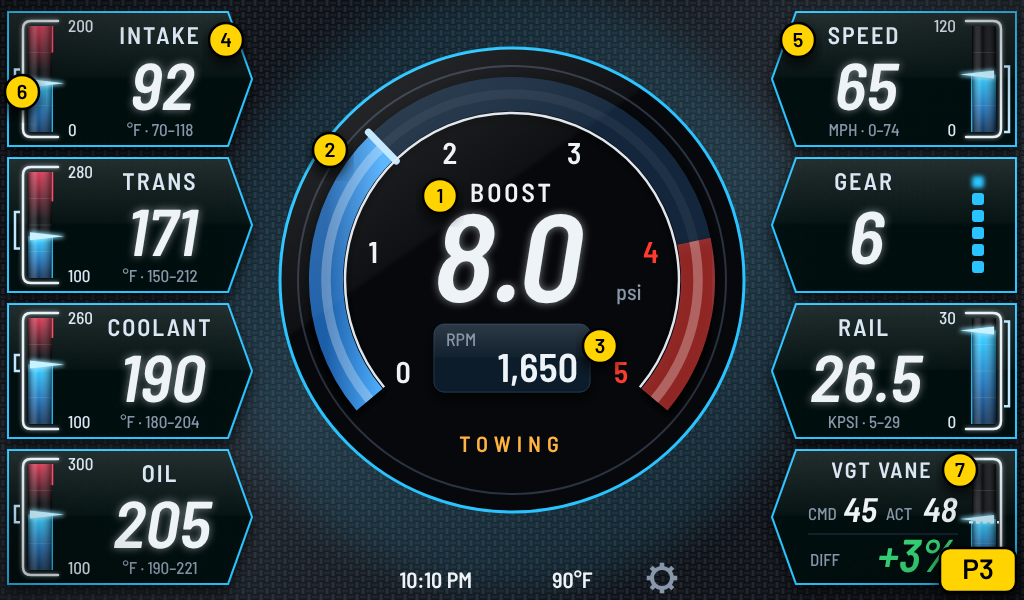
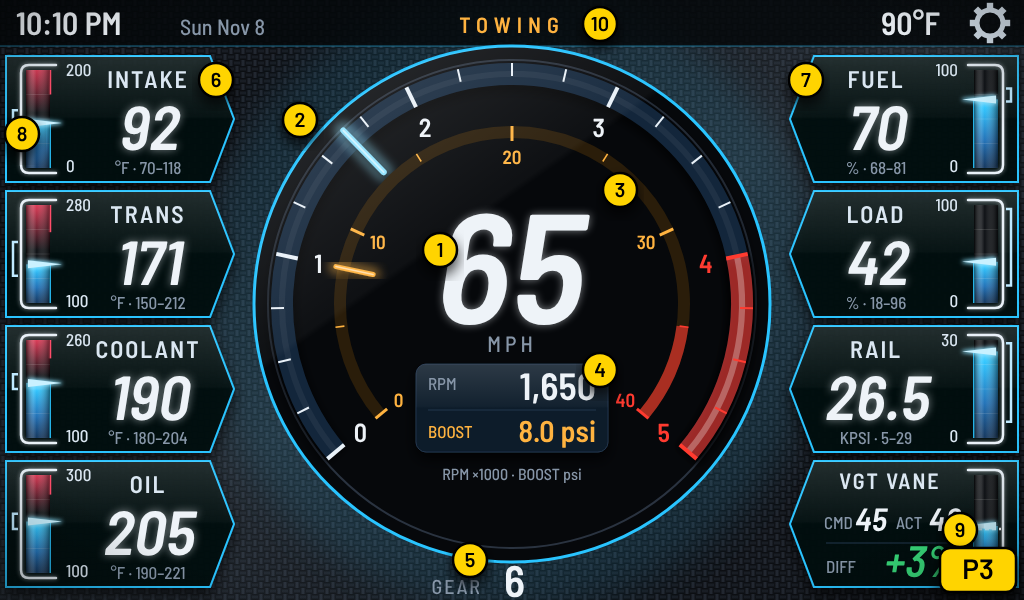
Mockups v2: P3 rev 3 (bigger center, speed center, RPM and boost needles, gear below, top bar)
Claude-Session: https://claude.ai/code/session_01NB1fkpFcGY28RY4JZ8NWPC

diff --git a/docs/mockups/v2.html b/docs/mockups/v2.html
@@ -277,26 +277,40 @@ pages.classic_trend=()=>{let o=`<rect width="1024" height="600" fill="#0d0d0f"/>
 
 
 // Premium Towing: aftermarket diesel-monitor look (carbon, segmented EGT arc, side data panels)
-pages.premium_towing=()=>{const CX=512,CY=280;const CY2='#29c4ff';
-  let o=`<rect width="1024" height="600" fill="url(#carbon)"/><rect width="1024" height="600" fill="url(#sheen)"/><circle cx="512" cy="290" r="300" fill="#29c4ff" opacity=".10" filter="url(#bloomBig)"/>`;GL.push([CX,CY,232]);
+pages.premium_towing=()=>{const CX=512,CY=304,RD=258;const CY2='#29c4ff';
+  let o=`<rect width="1024" height="600" fill="url(#carbon)"/><rect width="1024" height="600" fill="url(#sheen)"/><circle cx="512" cy="300" r="310" fill="#29c4ff" opacity=".10" filter="url(#bloomBig)"/>`;GL.push([CX,CY,RD]);
   const sk=(x,y,sz,t,op={})=>`<g transform="translate(${x},${y}) skewX(-9)">`+T(0,0,sz,t,{f:'C6',...op})+`</g>`;
+  // top bar: time, date, TOWING, outside temp, settings
+  o+=`<rect x="0" y="0" width="1024" height="46" fill="#05080b" opacity=".85"/><line x1="0" y1="46" x2="1024" y2="46" stroke="${CY2}" stroke-opacity=".5"/>`;
+  o+=T(16,35,32,'10:10 PM',{a:'start',f:'C6'})+T(180,35,22,'Sun Nov 8',{a:'start',c:C.dim,f:'C5'})+T(CX,33,22,'TOWING',{c:C.amber,ls:6,f:'C6'});
+  o+=T(940,35,32,'90°F',{a:'end',f:'C6'});
+  {let g='';const x=990,y=23;for(let i=0;i<8;i++){const an=i*45,[a1,b1]=P(x,y,17,an-11),[a2,b2]=P(x,y,17,an+11);g+=`<line x1="${n1(a1)}" y1="${n1(b1)}" x2="${n1(a2)}" y2="${n1(b2)}" stroke="#dbe7f2" stroke-width="7"/>`}
+   o+=g+`<circle cx="${x}" cy="${y}" r="13" fill="none" stroke="#dbe7f2" stroke-width="5"/>`}
   // center disc
-  o+=`<circle cx="${CX}" cy="${CY}" r="232" fill="#06080b" stroke="${CY2}" stroke-width="3"/><circle cx="${CX}" cy="${CY}" r="214" fill="none" stroke="#2a3340" stroke-width="2"/>`;
-  // smooth RPM arc (like P4-1)
-  const R=186,A0=140,SW=260,a=v=>A0+SW*v/5;
-  o+=`<path d="${arc(CX,CY,R,A0,A0+SW)}" stroke="#13263b" stroke-width="34" fill="none"/>`;
-  o+=`<path d="${arc(CX,CY,R,A0,a(V.rpm/1000))}" stroke="url(#blue)" stroke-width="34" fill="none"/>`;
-  o+=`<path d="${arc(CX,CY,R,a(4),a(5))}" stroke="${C.red}" stroke-width="34" fill="none" opacity=".55"/>`;
-  {const[x1,y1]=P(CX,CY,R-20,a(V.rpm/1000)),[x2,y2]=P(CX,CY,R+20,a(V.rpm/1000));o+=`<line x1="${n1(x1)}" y1="${n1(y1)}" x2="${n1(x2)}" y2="${n1(y2)}" stroke="#bfe6ff" stroke-width="7" stroke-linecap="round"/>`}
-  o+=`<path d="${arc(CX,CY,R-19,A0,A0+SW)}" stroke="#dfe6ee" stroke-width="2.5" fill="none"/>`;
-  for(let v=0;v<=5;v++){const[x,y]=P(CX,CY,R-44,a(v));o+=T(x,y,30,v,{db:'central',c:v>=4?C.red:C.text,f:'C6'})}
-  // boost, big
-  o+=T(CX,CY-78,26,'BOOST',{f:'C6',ls:3});o+=sk(CX-8,CY+22,124,V.boost.toFixed(1));o+=T(CX+104,CY+20,22,'psi',{a:'start',c:C.dim,f:'C5'});
-  // RPM box (like P4-6)
-  o+=`<rect x="434" y="${CY+44}" width="156" height="68" rx="10" fill="#0f1b2a" stroke="#22364d"/>`+T(446,CY+66,18,'RPM',{a:'start',c:C.dim,f:'C5'})+T(578,CY+102,40,fmt(V.rpm),{a:'end',f:'C6'});
-  o+=T(CX,CY+172,22,'TOWING',{c:C.amber,ls:6,f:'C6'});
-  o+=T(CX-40,588,22,'10:10 PM',{a:'end',f:'C6'})+T(CX+40,588,22,'90°F',{a:'start',f:'C6'})+cog(CX+150,578);
-  // side panels with a range bar on the straight edge: normal range, red zone, this drive's min-max, and now
+  o+=`<circle cx="${CX}" cy="${CY}" r="${RD}" fill="#06080b" stroke="${CY2}" stroke-width="3"/><circle cx="${CX}" cy="${CY}" r="${RD-14}" fill="none" stroke="#2a3340" stroke-width="2"/>`;
+  const A0=140,SW=260;
+  // outer scale: RPM with a needle
+  const RO=230,ar=v=>A0+SW*v/5;
+  o+=`<path d="${arc(CX,CY,RO,A0,A0+SW)}" stroke="#13263b" stroke-width="22" fill="none"/>`;
+  o+=`<path d="${arc(CX,CY,RO,ar(4),ar(5))}" stroke="${C.red}" stroke-width="22" fill="none" opacity=".6"/>`;
+  for(let v=0;v<=5;v+=.25){const maj=v%1==0,[x1,y1]=P(CX,CY,RO+11,ar(v)),[x2,y2]=P(CX,CY,RO-(maj?11:2),ar(v));o+=`<line x1="${n1(x1)}" y1="${n1(y1)}" x2="${n1(x2)}" y2="${n1(y2)}" stroke="${v>=4?C.red:'#e9f1f8'}" stroke-width="${maj?4:2}"/>`}
+  for(let v=0;v<=5;v++){const[x,y]=P(CX,CY,RO-32,ar(v));o+=T(x,y,26,v,{db:'central',c:v>=4?C.red:C.text,f:'C6'})}
+  o+=needle(CX,CY,RO-46,RO+12,ar(V.rpm/1000),'#8fe3ff',6);
+  // inner scale: BOOST with its own needle
+  const RI=172,ab=v=>A0+SW*v/40;
+  o+=`<path d="${arc(CX,CY,RI,A0,A0+SW)}" stroke="#2a1d0a" stroke-width="12" fill="none"/>`;
+  o+=`<path d="${arc(CX,CY,RI,ab(35),ab(40))}" stroke="${C.red}" stroke-width="12" fill="none" opacity=".6"/>`;
+  for(let v=0;v<=40;v+=5){const maj=v%10==0,[x1,y1]=P(CX,CY,RI+6,ab(v)),[x2,y2]=P(CX,CY,RI-(maj?9:3),ab(v));o+=`<line x1="${n1(x1)}" y1="${n1(y1)}" x2="${n1(x2)}" y2="${n1(y2)}" stroke="${v>=35?C.red:C.amber}" stroke-width="${maj?3:1.6}"/>`}
+  for(let v=0;v<=40;v+=10){const[x,y]=P(CX,CY,RI-24,ab(v));o+=T(x,y,19,v,{db:'central',c:v>=35?C.red:C.amber,f:'C6'})}
+  o+=needle(CX,CY,RI-30,RI+8,ab(V.boost),C.amber,5);
+  // speed, big; RPM digits with boost under them
+  o+=sk(CX-6,CY+20,156,V.mph)+T(CX,CY+48,22,'MPH',{c:C.dim,ls:4,f:'C5'});
+  o+=`<rect x="${CX-96}" y="${CY+60}" width="192" height="88" rx="10" fill="#0f1b2a" stroke="#22364d"/>`+T(CX,CY+176,16,'RPM ×1000  ·  BOOST psi',{c:C.dim,f:'C5'});
+  o+=T(CX-84,CY+86,17,'RPM',{a:'start',c:C.dim,f:'C5'})+T(CX+84,CY+96,38,fmt(V.rpm),{a:'end',f:'C6'});
+  o+=`<line x1="${CX-84}" y1="${CY+106}" x2="${CX+84}" y2="${CY+106}" stroke="#22364d"/>`;
+  o+=T(CX-84,CY+134,17,'BOOST',{a:'start',c:C.amber,f:'C5'})+T(CX+84,CY+138,30,V.boost.toFixed(1)+' psi',{a:'end',f:'C6',c:C.amber});
+  // gear below the circle
+  o+=T(CX-30,594,20,'GEAR',{a:'end',c:C.dim,f:'C5',ls:2})+T(CX-8,597,44,V.gear,{a:'start',f:'C6'});
   // Premium vertical bar: outline frame, red zone fading down, fill fading down from a bright top edge, pointer wedge,
   // dividers, tube shading, scale numbers, and this drive's min-max as a bracket outside the frame.
   let RB=0;
@@ -327,22 +341,22 @@ pages.premium_towing=()=>{const CX=512,CY=280;const CY2='#29c4ff';
     if(lo!=null){const bxx=left?fx-8:fx+8,yh=Y(hi),yl=Y(lo);g+=`<path d="M${bxx+(left?5:-5)},${n1(yh)} H${bxx} V${n1(yl)} H${bxx+(left?5:-5)}" fill="none" stroke="#bfe9ff" stroke-width="2.5"/>`}
     return g}
   const L=[['INTAKE',V.iat,'°F',[0,200,150,70,118]],['TRANS',V.trans,'°F',[100,280,230,150,212]],['COOLANT',V.cool,'°F',[100,260,230,180,204]],['OIL',V.oil,'°F',[100,300,260,190,221]]];
-  const Rr=[['SPEED',V.mph,'MPH',[0,120,null,0,74]],['GEAR',V.gear,'',null],['RAIL',26.5,'KPSI',[0,30,null,5,29]],['VGT',null,'',null]];
-  [[L,true],[Rr,false]].forEach(([items,left])=>items.forEach(([lab,val,u,rng],i)=>{const y=12+i*146,x=left?8:772,w=244,h=134;
+  const Rr=[['FUEL',70,'%',[0,100,null,68,81]],['LOAD',42,'%',[0,100,null,18,96]],['RAIL',26.5,'KPSI',[0,30,null,5,29]],['VGT',null,'',null]];
+  [[L,true],[Rr,false]].forEach(([items,left])=>items.forEach(([lab,val,u,rng],i)=>{const w=228,h=126,y=56+i*(h+9),x=left?6:1018-w;
     const pts=left?`${x},${y} ${x+w-24},${y} ${x+w},${y+h/2} ${x+w-24},${y+h} ${x},${y+h}`:`${x+24},${y} ${x+w},${y} ${x+w},${y+h} ${x+24},${y+h} ${x},${y+h/2}`;
     o+=`<polygon points="${pts}" fill="#06080bcc" stroke="${CY2}" stroke-width="2"/>`;
-    const bx=left?x+20:x+w-44,cx=x+w/2+(left?30:-30);
+    const bx=left?x+20:x+w-44,cx=x+w/2+(left?28:-28);
     if(lab=='VGT'){const cmd=45,act=V.vgt,diff=act-cmd,dc=Math.abs(diff)>=10?C.red:Math.abs(diff)>=5?C.amber:C.green;
-      o+=T(x+110,y+28,22,'VGT VANE',{f:'C6',c:'#dbe7f2',ls:2});
-      o+=T(x+36,y+70,17,'CMD',{a:'start',c:C.dim,f:'C5'})+sk(x+104,y+72,34,cmd,{a:'end'});
-      o+=T(x+114,y+70,17,'ACT',{a:'start',c:C.dim,f:'C5'})+sk(x+184,y+72,34,act,{a:'end'});
-      o+=`<line x1="${x+36}" y1="${y+84}" x2="${x+186}" y2="${y+84}" stroke="#22364d"/>`;
-      o+=T(x+38,y+116,17,'DIFF',{a:'start',c:C.dim,f:'C5'})+sk(x+184,y+122,46,(diff>0?'+':'')+diff+'%',{a:'end',c:dc});
+      o+=T(x+100,y+28,22,'VGT VANE',{f:'C6',c:'#dbe7f2',ls:2});
+      o+=T(x+34,y+68,17,'CMD',{a:'start',c:C.dim,f:'C5'})+sk(x+96,y+70,32,cmd,{a:'end'});
+      o+=T(x+106,y+68,17,'ACT',{a:'start',c:C.dim,f:'C5'})+sk(x+170,y+70,32,act,{a:'end'});
+      o+=`<line x1="${x+36}" y1="${y+82}" x2="${x+172}" y2="${y+82}" stroke="#22364d"/>`;
+      o+=T(x+36,y+112,17,'DIFF',{a:'start',c:C.dim,f:'C5'})+sk(x+170,y+116,44,(diff>0?'+':'')+diff+'%',{a:'end',c:dc});
       o+=rbar(bx,y+14,h-28,0,100,null,null,null,act,{cmd,left,nolab:1});return}
     if(lab=='GEAR'){o+=T(cx,y+32,24,lab,{f:'C6',c:'#dbe7f2',ls:2})+sk(cx,y+106,74,val);
       for(let g=1;g<=6;g++){const py=y+h-14-g*17;o+=`<rect x="${bx}" y="${py}" width="12" height="12" rx="3" fill="${g<=+val?CY2:'#16202b'}"${g==+val?' filter="url(#glow2)"':''}/>`}return}
     const hot=rng&&rng[2]!=null&&val>=rng[2];
-    o+=T(cx,y+32,24,lab,{f:'C6',c:'#dbe7f2',ls:2})+sk(cx,y+98,66,val,{c:hot?C.red:C.text})+T(cx,y+124,17,[u,rng&&rng[3]!=null?rng[3]+'–'+rng[4]:''].filter(Boolean).join('  ·  '),{c:C.dim,f:'C5'});
+    o+=T(cx,y+32,24,lab,{f:'C6',c:'#dbe7f2',ls:2})+sk(cx,y+94,62,val,{c:hot?C.red:C.text})+T(cx,y+118,17,[u,rng&&rng[3]!=null?rng[3]+'–'+rng[4]:''].filter(Boolean).join('  ·  '),{c:C.dim,f:'C5'});
     if(rng)o+=rbar(bx,y+14,h-28,rng[0],rng[1],rng[2],rng[3],rng[4],val,{left});
 }));
   if(q.get('pick')){o+=`<rect width="1024" height="600" fill="#000" opacity=".72"/>`;
@@ -415,7 +429,7 @@ s+='<rect width="1024" height="600" fill="url(#vign)" pointer-events="none"/>';
 // ?n=1: numbered callouts so feedback can say "P2-4" or "C3-6"
 const CALL={premium_daily:[[118,262],[262,250],[512,222],[690,170],[48,560],[400,560],[740,560],[60,8]],
  premium_sport:[[312,128],[600,180],[600,370],[690,280],[48,96],[48,420],[976,96],[976,420]],
- premium_towing:[[440,196],[330,150],[600,346],[226,40],[798,40],[22,92],[960,470]],
+ premium_towing:[[440,250],[300,120],[620,190],[600,370],[470,560],[216,80],[806,80],[22,134],[960,530],[600,24]],
  premium_economy:[[420,110],[640,250],[580,450],[96,330],[260,150],[340,330],[980,330],[800,150],[512,548]],
  premium_trend:[[248,62],[440,80],[620,330],[716,165],[790,96],[262,540]],
  classic_daily:[[52,112],[300,92],[620,278],[992,112],[170,350],[546,350],[40,488]],

diff --git a/docs/mockups/v2/KEY.md b/docs/mockups/v2/KEY.md
@@ -7,7 +7,7 @@ renders are in `numbered/`.
 |---|---|
 | **P1** Premium Daily | 1 tach that wraps into the top bar · 2 gear dial · 3 center card (boost/trans/MPG) · 4 speedo · 5 odometer · 6 coolant · 7 fuel % and range · 8 clock/date bar |
 | **P2** Premium Sport | 1 big center tach · 2 speed · 3 gear · 4 red-zone glow · 5 coolant bar · 6 trans bar · 7 boost bar · 8 oil bar |
-| **P3** Premium Towing (rev 2) | 1 boost (center) · 2 RPM arc · 3 RPM box · 4 left panels (intake/trans/coolant/oil) · 5 right panels (speed/gear/rail/VGT) · 6 premium vertical bars: outline frame, red zone fading down, fill fading down from a bright top edge, pointer at now, scale min/max, this drive's min–max as a bracket outside the frame (also printed under the value) · 7 VGT vane: CMD, ACT and DIFF (amber at 5%, red at 10%) |
+| **P3** Premium Towing (rev 3) | 1 speed (big, center) · 2 RPM needle on the outer scale · 3 boost needle on the inner amber scale · 4 RPM digits with boost under them · 5 gear (below the circle) · 6 left panels (intake/trans/coolant/oil) · 7 right panels (fuel/load/rail/VGT) · 8 premium vertical bars: outline frame, red zone fading down, fill fading down from a bright top edge, pointer at now, scale min/max, this drive's min–max bracket (also under the value) · 9 VGT vane: CMD, ACT and DIFF (amber at 5%, red at 10%) · 10 top bar: time, date, page, outside temp, settings |
 | **P4** Premium Economy | 1 open-arc tach · 2 speed · 3 gear · 4 fuel bar · 5 fuel % and range · 6 trip/tank boxes · 7 MPG bar with tank-avg marker · 8 MPG now/trip/last 10 · 9 telltales |
 | **P5** Premium Trend | 1 channel list · 2 live values · 3 chart · 4 tap cursor · 5 min/avg/max · 6 time window buttons |
 | **C1** Classic Daily | 1 digital speed/gear window · 2 sweep speedo · 3 odometer · 4 round tach · 5 temp/trans window · 6 boost/fuel window · 7 clock |
